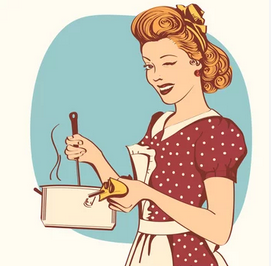
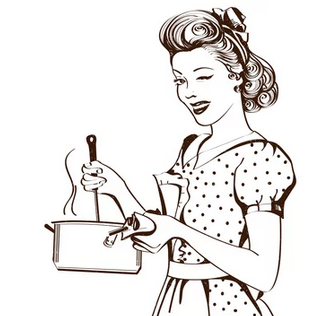
add img & format elements

diff --git a/recipes/index.html b/recipes/index.html
@@ -4,18 +4,20 @@
 	  <meta charset="UTF-8">
 	  <link rel="stylesheet" href="../css/style.css">
 	  <title>Cooking through Time</title>
+	  <link rel="preconnect" href="https://fonts.googleapis.com">
+	  <link rel="preconnect" href="https://fonts.gstatic.com" crossorigin>
+	  <link href="https://fonts.googleapis.com/css2?family=Andada+Pro&family=Dancing+Script&display=swap" rel="stylesheet">
+
 	</head>
 	<body>
-
-		<header><h1>Cooking through Time</h1></header>
-		<h2>Wacky and Wild Recipes from Days Gone By</h2> 
-		<ul class="recipeListMain">
-			<li>Frosted Lime and Walnut Salad</li>
-			<li>Ham and Bananas Hollandaise</li>
-			<li>Old Fashioned Vinegar Pie</li>
-
-
+		<header class="titleText"><h1>Cooking through Time</h1></header>
+		<h2 class="subTitleText">Wacky and Wild Recipes from Days Gone By</h2>
+		<img class="mainImgs" id="mainImg1" src="../images/woman-cooking-2.png" alt="50s woman cooking"> 
+		<img class="mainImgs" id="mainImg2" src="../images/woman-cooking-2.png" alt="50s woman cooking"> 
+		<ul class="recipeListMain" class="centerItem">
+			<li class="recipeListItemMain">Frosted Lime and Walnut Salad</li>
+			<li class="recipeListItemMain">Ham and Bananas Hollandaise</li>
+			<li class="recipeListItemMain">Old Fashioned Vinegar Pie</li>
 		</ul>
-
 	</body>
 </html>

diff --git a/css/style.css b/css/style.css
@@ -1,4 +1,56 @@
-.recipeListMain {
+body {
+   
+}
+
+.titleText{
     color: #2ff5c2;
+    font-family: Dancing Script, Arial;
+    font-size: 50px;
+    text-align: center;
+    margin-top: -40px;
+} 
+
+.subTitleText{
+    color: #d2026b;
+    font-family: Andada Pro, Arial;
+    font-size: 30px;
+    text-align: center;
+    margin-top: -50px;
+} 
+
+.centerItem {
+    display: block;
+    margin-right: auto;
+    margin-left: auto;
+}
+
+
+.mainImgs {
+    display: inline-block;
+    border-radius: 0%;
+    width: 50vh;
+    height: auto;
+    margin-top: 10px;
+    
+}
+
+#mainImg1 {
+    float: left;
+    margin-left: 25%;
+}
+
+#mainImg2 {
+}
+
+.recipeListMain {
+    margin-top: 14px;
+    text-align: center;
+    color: #2ff5c2;
+    font-family: Andada Pro, Arial;
+    font-size: 27px;
     list-style-type: none;
 } 
+
+.recipeListItemMain {
+    margin: 10px;
+}
